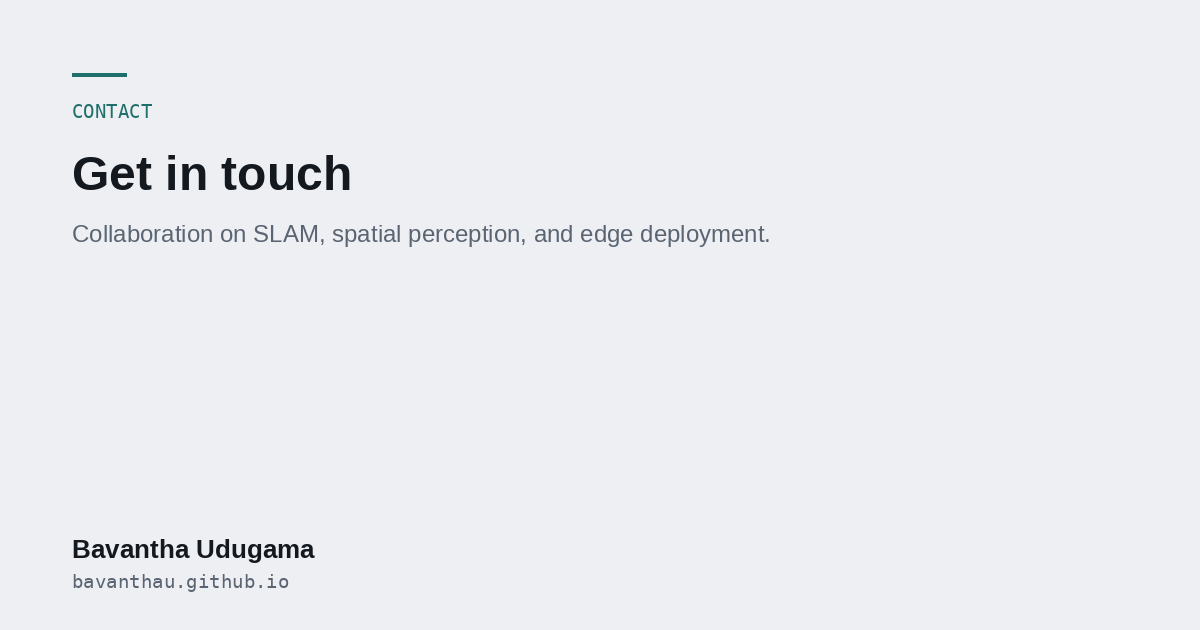
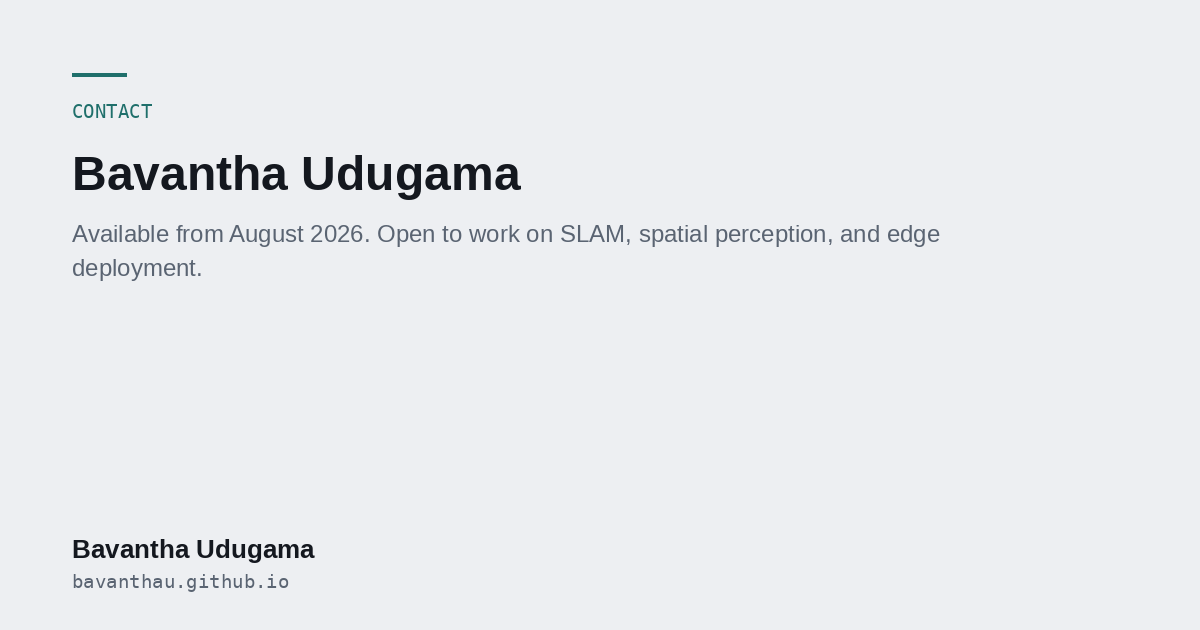
Lead with the person, not the work
The home page opened on research with no introduction. It now starts with who
I am and what I did before the PhD, in two short paragraphs, then the work,
then an explicit set of pointers to the other pages.

Remove "published as U.V.B.L. Udugama" from the hero, the footer and the CV.
Nobody introduces themselves that way. It survives once on the publications
page, where it is genuinely useful, and in the JSON-LD alternateName field,
where search engines read it and readers do not.

The social card said "monocular spatial perception for robots that move",
which asserts nothing: every robot moves. It now says "3D scene graphs from a
single camera", which is the actual claim, and the page title matches. The
publications card no longer calls the section peer reviewed now that it also
carries preprints and undergraduate work.

Changed region(s): [[0.0617, 0.3619, 0.8017, 0.4524], [0.0617, 0.2413, 0.4317, 0.3317]]

diff --git a/index.html b/index.html
@@ -3,22 +3,22 @@
 <head>
 <meta charset="utf-8">
 <meta name="viewport" content="width=device-width, initial-scale=1">
-<title>Bavantha Udugama | Monocular spatial perception for robots</title>
+<title>Bavantha Udugama | 3D scene graphs from a single camera</title>
 <meta name="description" content="Bavantha Udugama builds real-time 3D scene graphs from a single camera and IMU, with no depth sensor. PhD candidate at ITC, University of Twente.">
 <link rel="canonical" href="https://bavanthau.github.io/">
 <meta name="google-site-verification" content="LWcJVt2Oa5A7B_dpxRGxcpkIGy-YoHjrJKUzmU_0QO4">
 <meta property="og:type" content="profile">
 <meta property="og:site_name" content="Bavantha Udugama">
-<meta property="og:title" content="Bavantha Udugama | Monocular spatial perception for robots">
+<meta property="og:title" content="Bavantha Udugama | 3D scene graphs from a single camera">
 <meta property="og:description" content="Bavantha Udugama builds real-time 3D scene graphs from a single camera and IMU, with no depth sensor. PhD candidate at ITC, University of Twente.">
 <meta property="og:url" content="https://bavanthau.github.io/">
 <meta property="og:image" content="https://bavanthau.github.io/media/og/home.png">
 <meta property="og:image:width" content="1200">
 <meta property="og:image:height" content="630">
-<meta property="og:image:alt" content="Bavantha Udugama | Monocular spatial perception for robots">
+<meta property="og:image:alt" content="Bavantha Udugama | 3D scene graphs from a single camera">
 <meta name="twitter:card" content="summary_large_image">
 <meta name="twitter:image" content="https://bavanthau.github.io/media/og/home.png">
-<meta name="twitter:title" content="Bavantha Udugama | Monocular spatial perception for robots">
+<meta name="twitter:title" content="Bavantha Udugama | 3D scene graphs from a single camera">
 <meta name="twitter:description" content="Bavantha Udugama builds real-time 3D scene graphs from a single camera and IMU, with no depth sensor. PhD candidate at ITC, University of Twente.">
 <link rel="stylesheet" href="/assets/site.css">
 <link rel="icon" href="/assets/favicon.svg" type="image/svg+xml">
@@ -105,9 +105,8 @@
   <div>
     <h1>Bavantha Udugama</h1>
     <p class="affil mono">PhD candidate &middot;
-      ITC, University of Twente &middot;
-      published as U.V.B.L. Udugama</p>
-    <p class="lede">A monocular camera is passive, light, cheap, and geometrically ambiguous. This work makes one build a hierarchical map of a building in real time, and then decide where to look next.</p>
+      ITC, University of Twente</p>
+    <p class="lede">I build perception systems for robots. For the last four years that has meant making one camera do the work the field assumed needed a depth sensor.</p>
   </div>
 
   <aside class="rail" aria-labelledby="rail-h">
@@ -122,10 +121,12 @@
   </aside>
 </div>
 
+<div class="intro"><p>That work is a PhD at ITC in Enschede, finishing in 2026. Before it I shipped robots rather than papers. I joined a Dubai startup as its first robotics engineer and within a year was leading a small team deploying more than 30 humanoid robots across Expo 2020, hospitals, and reception desks. Debugging a navigation stack in front of a paying customer is a good way to find out which parts of a system are real.</p><p>I started at Peradeniya, building a reconnaissance robot that had to map a space nobody had surveyed. That is still the question I work on, now with a learned model and one camera instead of a laser scanner.</p></div>
+
 <figure class="v-figure "><div class="v-wrap"><video poster="/media/video/itc-loop-poster.jpg" width="1280" height="570" muted loop playsinline preload="none" data-autoloop aria-label="Screen recording of the scene graph being built while the drone flies the ITC second floor loop. The graph grows from nothing to a full corridor circuit, with live RGB, semantic, and depth views alongside."><source src="/media/video/itc-loop.mp4" type="video/mp4"></video><button type="button" class="v-toggle" data-toggle aria-label="Play or pause video">Pause</button></div><figcaption>The scene graph forming over one loop of the ITC second floor, from the first frame to loop closure. Playback is 10x real time. Live RGB, predicted semantics, and predicted depth run down the right.</figcaption></figure>
 
-<h2>The problem</h2>
-<p>An aerial robot inspecting a bridge, counting warehouse stock, or entering a building after an incident has to do three things: understand the space, organise what it sees into something it can act on, and work out where to look next.</p><p>The second one is where most systems stop short. A point cloud tells a robot where surfaces are. It does not tell it that this is a room, that is a doorway, and there is a fire extinguisher on the wall. Planning, search, and instructions all need objects, places, and rooms, not raw geometry.</p><p>The sensor here is one camera and an IMU. Passive, light, inexpensive, information-rich, and geometrically ambiguous: a single image cannot tell you scale. Every hard problem in this work follows from choosing not to carry a depth sensor, and the reason to accept that is payload. What a small drone can lift decides what it can do, and for how long.</p>
+<h2>What I work on</h2>
+<p>A robot inspecting a bridge, counting warehouse stock, or entering a building after an incident needs more than a point cloud. A point cloud says where surfaces are. It does not say that this is a room, that is a doorway, and there is a fire extinguisher on the wall. Planning, search, and spoken instructions all need objects, places, and rooms.</p><p>The sensor is one camera and an IMU: passive, light, inexpensive, information-rich, and geometrically ambiguous, because a single image cannot tell you scale. Every hard problem here follows from choosing not to carry a depth sensor, and the reason to accept that is payload. What a small drone can lift decides what it can do, and for how long.</p>
 
 <h2>Part I. Structuring the seen</h2>
 <p class="section-intro">Learned depth and semantics feed a visual-inertial estimator, and the map that comes out is layered: mesh, objects, places, rooms, building. Four papers, from showing it was possible to closing the loop back into the estimator.</p>
@@ -209,7 +210,9 @@ regression.</p>
         <p>A monocular camera and an IMU can build a layered 3D scene graph while the robot is still moving, which the field had only done with depth sensors or LiDAR.</p>
         <p class="card-meta"><span>Published, ISPRS Annals 2023</span></p>
       </li></ul>
-<p><a href="/publications/">All publications</a> &middot; <a href="/projects/">Projects and code</a></p>
+
+<h2>Where to go next</h2>
+<ul class="cards cards-next"><li class="card"><h3><a href="/research/">Research</a></h3><p>The full argument, the two parts, and the numbers behind them.</p></li><li class="card"><h3><a href="/publications/">Publications</a></h3><p>Ten papers, from the 2017 undergraduate work to the journal manuscript under review.</p></li><li class="card"><h3><a href="/projects/">Projects</a></h3><p>The systems themselves, with links to every repository.</p></li><li class="card"><h3><a href="/cv/">CV</a></h3><p>Where I have worked, and what I did there.</p></li><li class="card"><h3><a href="/contact/">Contact</a></h3><p>I am available from August 2026 and open to collaboration.</p></li></ul>
 
 </div>
 </main>
@@ -222,7 +225,7 @@ regression.</p>
       <li><a rel="me" href="https://research.utwente.nl/en/persons/bavantha-udugama">University of Twente</a></li>
       <li><a href="/publications/bibtex/">BibTeX</a></li>
     </ul>
-    <p>Bavantha Udugama, published as U.V.B.L. Udugama. ITC, University of Twente.</p>
+    <p>Bavantha Udugama. ITC, University of Twente, Enschede.</p>
   </div>
 </footer>
 <script src="/assets/media.js" defer></script>

diff --git a/research/index.html b/research/index.html
@@ -97,7 +97,7 @@
 <div class="wrap">
 
 <h1>Research</h1>
-<p class="standfirst">A monocular camera is passive, light, cheap, and geometrically ambiguous. This work makes one build a hierarchical map of a building in real time, and then decide where to look next.</p>
+<p class="standfirst">I build perception systems for robots. For the last four years that has meant making one camera do the work the field assumed needed a depth sensor.</p>
 
 <div class="note">
   <span class="note-label">Prologue</span>
@@ -210,7 +210,7 @@ George Vosselman and Francesco Nex.</p>
       <li><a rel="me" href="https://research.utwente.nl/en/persons/bavantha-udugama">University of Twente</a></li>
       <li><a href="/publications/bibtex/">BibTeX</a></li>
     </ul>
-    <p>Bavantha Udugama, published as U.V.B.L. Udugama. ITC, University of Twente.</p>
+    <p>Bavantha Udugama. ITC, University of Twente, Enschede.</p>
   </div>
 </footer>
 <script src="/assets/media.js" defer></script>

diff --git a/cv/index.html b/cv/index.html
@@ -98,7 +98,7 @@
 
 <h1>Curriculum vitae</h1>
 <p class="standfirst">PhD candidate at Faculty ITC, University of Twente,
-available from August 2026. Published as U.V.B.L. Udugama.</p>
+available from August 2026.</p>
 
 <h2>Timeline</h2>
 <ul class="timeline">
@@ -219,7 +219,7 @@ C++, Python, ROS 1 and ROS 2, Docker, TensorRT, Jetson Orin NX, FP16 inference o
       <li><a rel="me" href="https://research.utwente.nl/en/persons/bavantha-udugama">University of Twente</a></li>
       <li><a href="/publications/bibtex/">BibTeX</a></li>
     </ul>
-    <p>Bavantha Udugama, published as U.V.B.L. Udugama. ITC, University of Twente.</p>
+    <p>Bavantha Udugama. ITC, University of Twente, Enschede.</p>
   </div>
 </footer>
 <script src="/assets/media.js" defer></script>

diff --git a/publications/index.html b/publications/index.html
@@ -97,7 +97,8 @@
 <div class="wrap">
 
 <h1>Publications</h1>
-<p class="standfirst">Published as U.V.B.L. Udugama, and earlier as B. Udugama.</p>
+<p class="standfirst">Papers are indexed under U.V.B.L. Udugama, and the earlier ones under
+B. Udugama.</p>
 
 <h2>Peer reviewed</h2>
 <ul class="publist">
@@ -210,7 +211,7 @@
       <li><a rel="me" href="https://research.utwente.nl/en/persons/bavantha-udugama">University of Twente</a></li>
       <li><a href="/publications/bibtex/">BibTeX</a></li>
     </ul>
-    <p>Bavantha Udugama, published as U.V.B.L. Udugama. ITC, University of Twente.</p>
+    <p>Bavantha Udugama. ITC, University of Twente, Enschede.</p>
   </div>
 </footer>
 <script src="/assets/media.js" defer></script>

diff --git a/assets/site.css b/assets/site.css
@@ -814,3 +814,16 @@ h2 { margin-top: 3.75rem; }
 .wipe + .wipe { margin-top: 2.75rem; }
 .wipe.is-interactive .wipe-stage { max-width: 52rem; }
 .wipe.is-interactive .wipe-control { max-width: 52rem; }
+
+/* introduction: slightly larger than body, this is the first thing read */
+.intro { margin: 0 0 3rem; }
+.intro p {
+  font-size: 1.0625rem;
+  line-height: 1.7;
+  max-width: 60ch;
+}
+.intro p:first-child { color: var(--ink); }
+
+.cards-next .card h3 { margin-top: 0; }
+.cards-next .card p { margin-bottom: 0; }
+@media (min-width: 44em) { .cards-next { grid-template-columns: 1fr 1fr 1fr; } }

diff --git a/projects/index.html b/projects/index.html
@@ -146,7 +146,7 @@ Perception deployed and measured. Full-suite onboard deployment planned for Augu
       <li><a rel="me" href="https://research.utwente.nl/en/persons/bavantha-udugama">University of Twente</a></li>
       <li><a href="/publications/bibtex/">BibTeX</a></li>
     </ul>
-    <p>Bavantha Udugama, published as U.V.B.L. Udugama. ITC, University of Twente.</p>
+    <p>Bavantha Udugama. ITC, University of Twente, Enschede.</p>
   </div>
 </footer>
 <script src="/assets/media.js" defer></script>

diff --git a/publications/bibtex/index.html b/publications/bibtex/index.html
@@ -177,7 +177,7 @@ because it is under review.</p>
       <li><a rel="me" href="https://research.utwente.nl/en/persons/bavantha-udugama">University of Twente</a></li>
       <li><a href="/publications/bibtex/">BibTeX</a></li>
     </ul>
-    <p>Bavantha Udugama, published as U.V.B.L. Udugama. ITC, University of Twente.</p>
+    <p>Bavantha Udugama. ITC, University of Twente, Enschede.</p>
   </div>
 </footer>
 <script src="/assets/media.js" defer></script>

diff --git a/contact/index.html b/contact/index.html
@@ -118,7 +118,7 @@ August 2026.</p>
       <li><a rel="me" href="https://research.utwente.nl/en/persons/bavantha-udugama">University of Twente</a></li>
       <li><a href="/publications/bibtex/">BibTeX</a></li>
     </ul>
-    <p>Bavantha Udugama, published as U.V.B.L. Udugama. ITC, University of Twente.</p>
+    <p>Bavantha Udugama. ITC, University of Twente, Enschede.</p>
   </div>
 </footer>
 <script src="/assets/media.js" defer></script>

diff --git a/projects/learned-exploration/index.html b/projects/learned-exploration/index.html
@@ -104,7 +104,7 @@
       <li><a rel="me" href="https://research.utwente.nl/en/persons/bavantha-udugama">University of Twente</a></li>
       <li><a href="/publications/bibtex/">BibTeX</a></li>
     </ul>
-    <p>Bavantha Udugama, published as U.V.B.L. Udugama. ITC, University of Twente.</p>
+    <p>Bavantha Udugama. ITC, University of Twente, Enschede.</p>
   </div>
 </footer>
 <script src="/assets/media.js" defer></script>

diff --git a/projects/m2h-mx/index.html b/projects/m2h-mx/index.html
@@ -106,7 +106,7 @@
       <li><a rel="me" href="https://research.utwente.nl/en/persons/bavantha-udugama">University of Twente</a></li>
       <li><a href="/publications/bibtex/">BibTeX</a></li>
     </ul>
-    <p>Bavantha Udugama, published as U.V.B.L. Udugama. ITC, University of Twente.</p>
+    <p>Bavantha Udugama. ITC, University of Twente, Enschede.</p>
   </div>
 </footer>
 <script src="/assets/media.js" defer></script>

diff --git a/projects/m2h/index.html b/projects/m2h/index.html
@@ -106,7 +106,7 @@
       <li><a rel="me" href="https://research.utwente.nl/en/persons/bavantha-udugama">University of Twente</a></li>
       <li><a href="/publications/bibtex/">BibTeX</a></li>
     </ul>
-    <p>Bavantha Udugama, published as U.V.B.L. Udugama. ITC, University of Twente.</p>
+    <p>Bavantha Udugama. ITC, University of Twente, Enschede.</p>
   </div>
 </footer>
 <script src="/assets/media.js" defer></script>

diff --git a/projects/mono-hydra-plus/index.html b/projects/mono-hydra-plus/index.html
@@ -107,7 +107,7 @@
       <li><a rel="me" href="https://research.utwente.nl/en/persons/bavantha-udugama">University of Twente</a></li>
       <li><a href="/publications/bibtex/">BibTeX</a></li>
     </ul>
-    <p>Bavantha Udugama, published as U.V.B.L. Udugama. ITC, University of Twente.</p>
+    <p>Bavantha Udugama. ITC, University of Twente, Enschede.</p>
   </div>
 </footer>
 <script src="/assets/media.js" defer></script>
